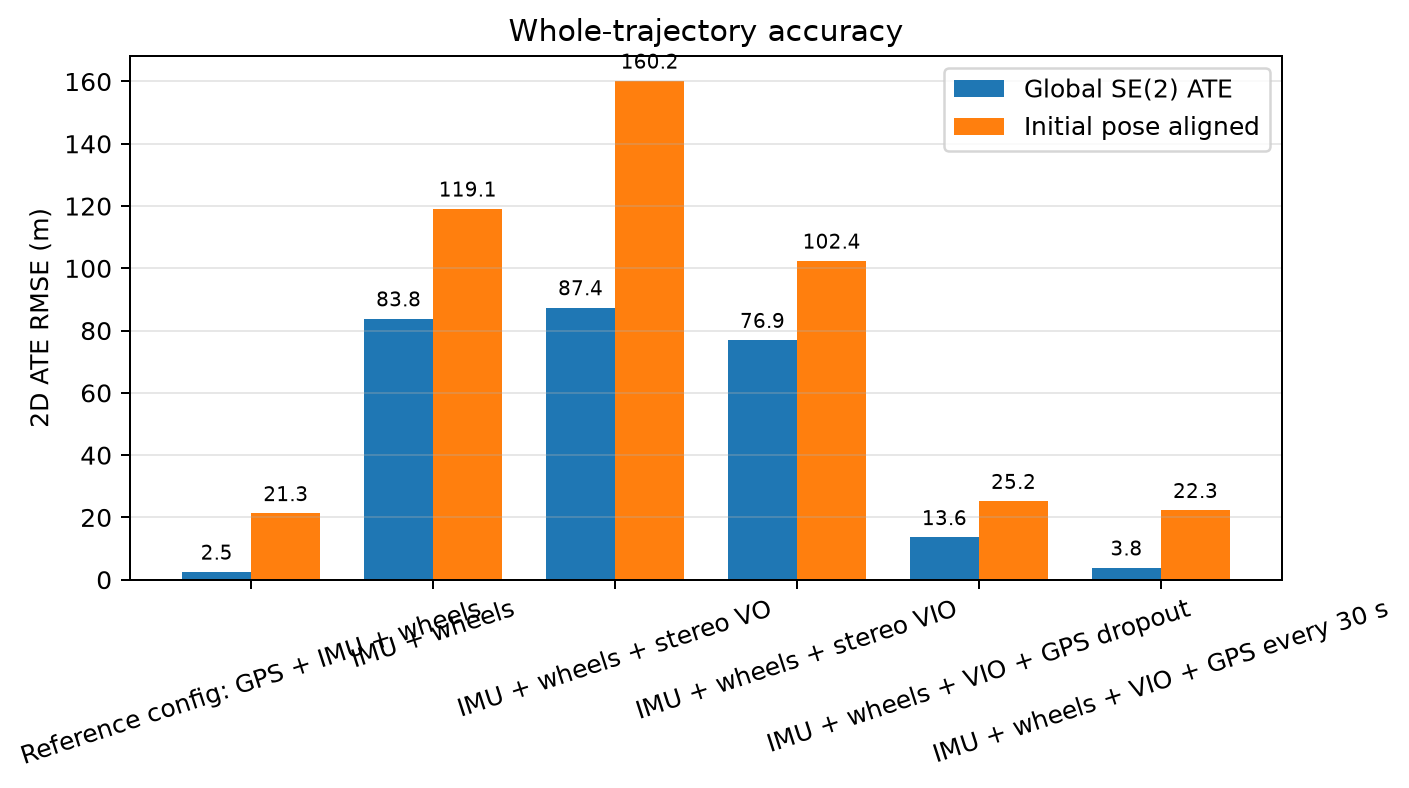
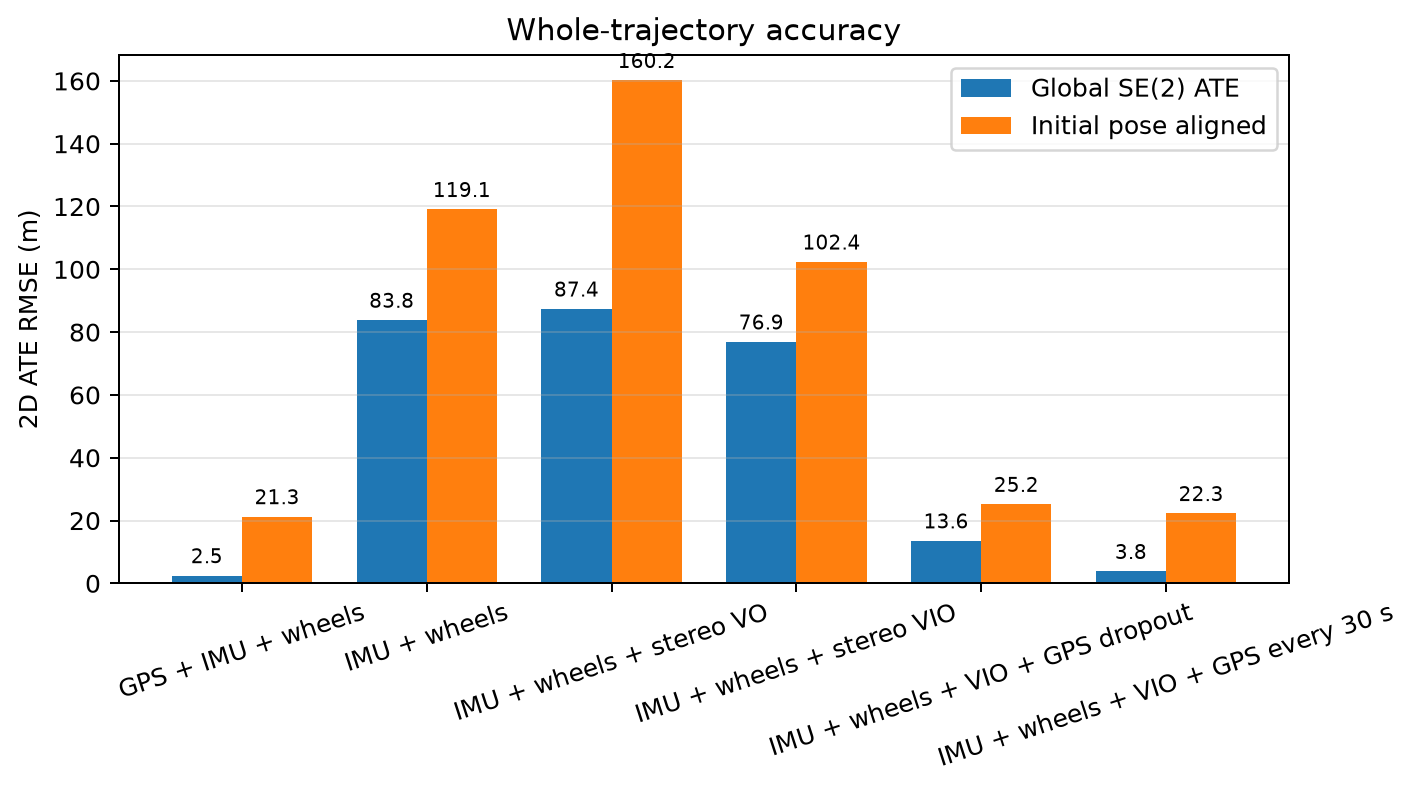
Document homework 19 evaluation evidence

diff --git a/src/evaluation/visualization.py b/src/evaluation/visualization.py
@@ -15,7 +15,7 @@ from src.evaluation.metrics import PositionEvaluation
 
 
 DISPLAY_NAMES = {
-    "gps": "Reference config: GPS + IMU + wheels",
+    "gps": "GPS + IMU + wheels",
     "base": "IMU + wheels",
     "visual": "IMU + wheels + stereo VO",
     "vio": "IMU + wheels + stereo VIO",

diff --git a/README.md b/README.md
@@ -8,7 +8,7 @@ Complex Urban Dataset.
 
 | Mode | Сенсори та призначення |
 |---|---|
-| `gps` | IMU + wheels + усі commercial GPS; reference configuration |
+| `gps` | GPS + IMU + wheels; усі commercial GPS measurements |
 | `base` | IMU + wheels; базова GPS-denied одометрія |
 | `visual` | IMU + wheels + loosely coupled stereo VO |
 | `vio` | IMU + wheels + feature-level stereo VIO |
@@ -76,6 +76,17 @@ data/complex_urban/urban39/
 ```
 
 Детальніше: [data/README.md](data/README.md).
+
+Приблизний розмір уже розпакованих даних:
+
+| Sequence | Розмір на диску |
+|---|---:|
+| `urban35` | 5.5 GB |
+| `urban33` | 44 GB |
+| `urban39` | 64 GB |
+| **Разом** | **≈114 GB** |
+
+Розмір може трохи відрізнятися залежно від набору завантажених архівів.
 
 ## Запуск
 
@@ -188,7 +199,9 @@ Global SE(2) ATE залишається у таблицях і на RMSE bar cha
 - `screenshots/rmse_comparison.png`;
 - `screenshots/trajectory_gps_reference.png`;
 - `screenshots/trajectory_vio.png`;
-- `screenshots/trajectory_degraded_gps.png`.
+- `screenshots/trajectory_degraded_gps.png`;
+- `screenshots/filter_consistency.png` з NIS diagnostics;
+- `results/screenshots/console_rmse_summary.png` з підсумковим RMSE/ATE.
 
 Архітектура описана у [docs/architecture.md](docs/architecture.md) та
 [docs/vio_architecture.md](docs/vio_architecture.md).
